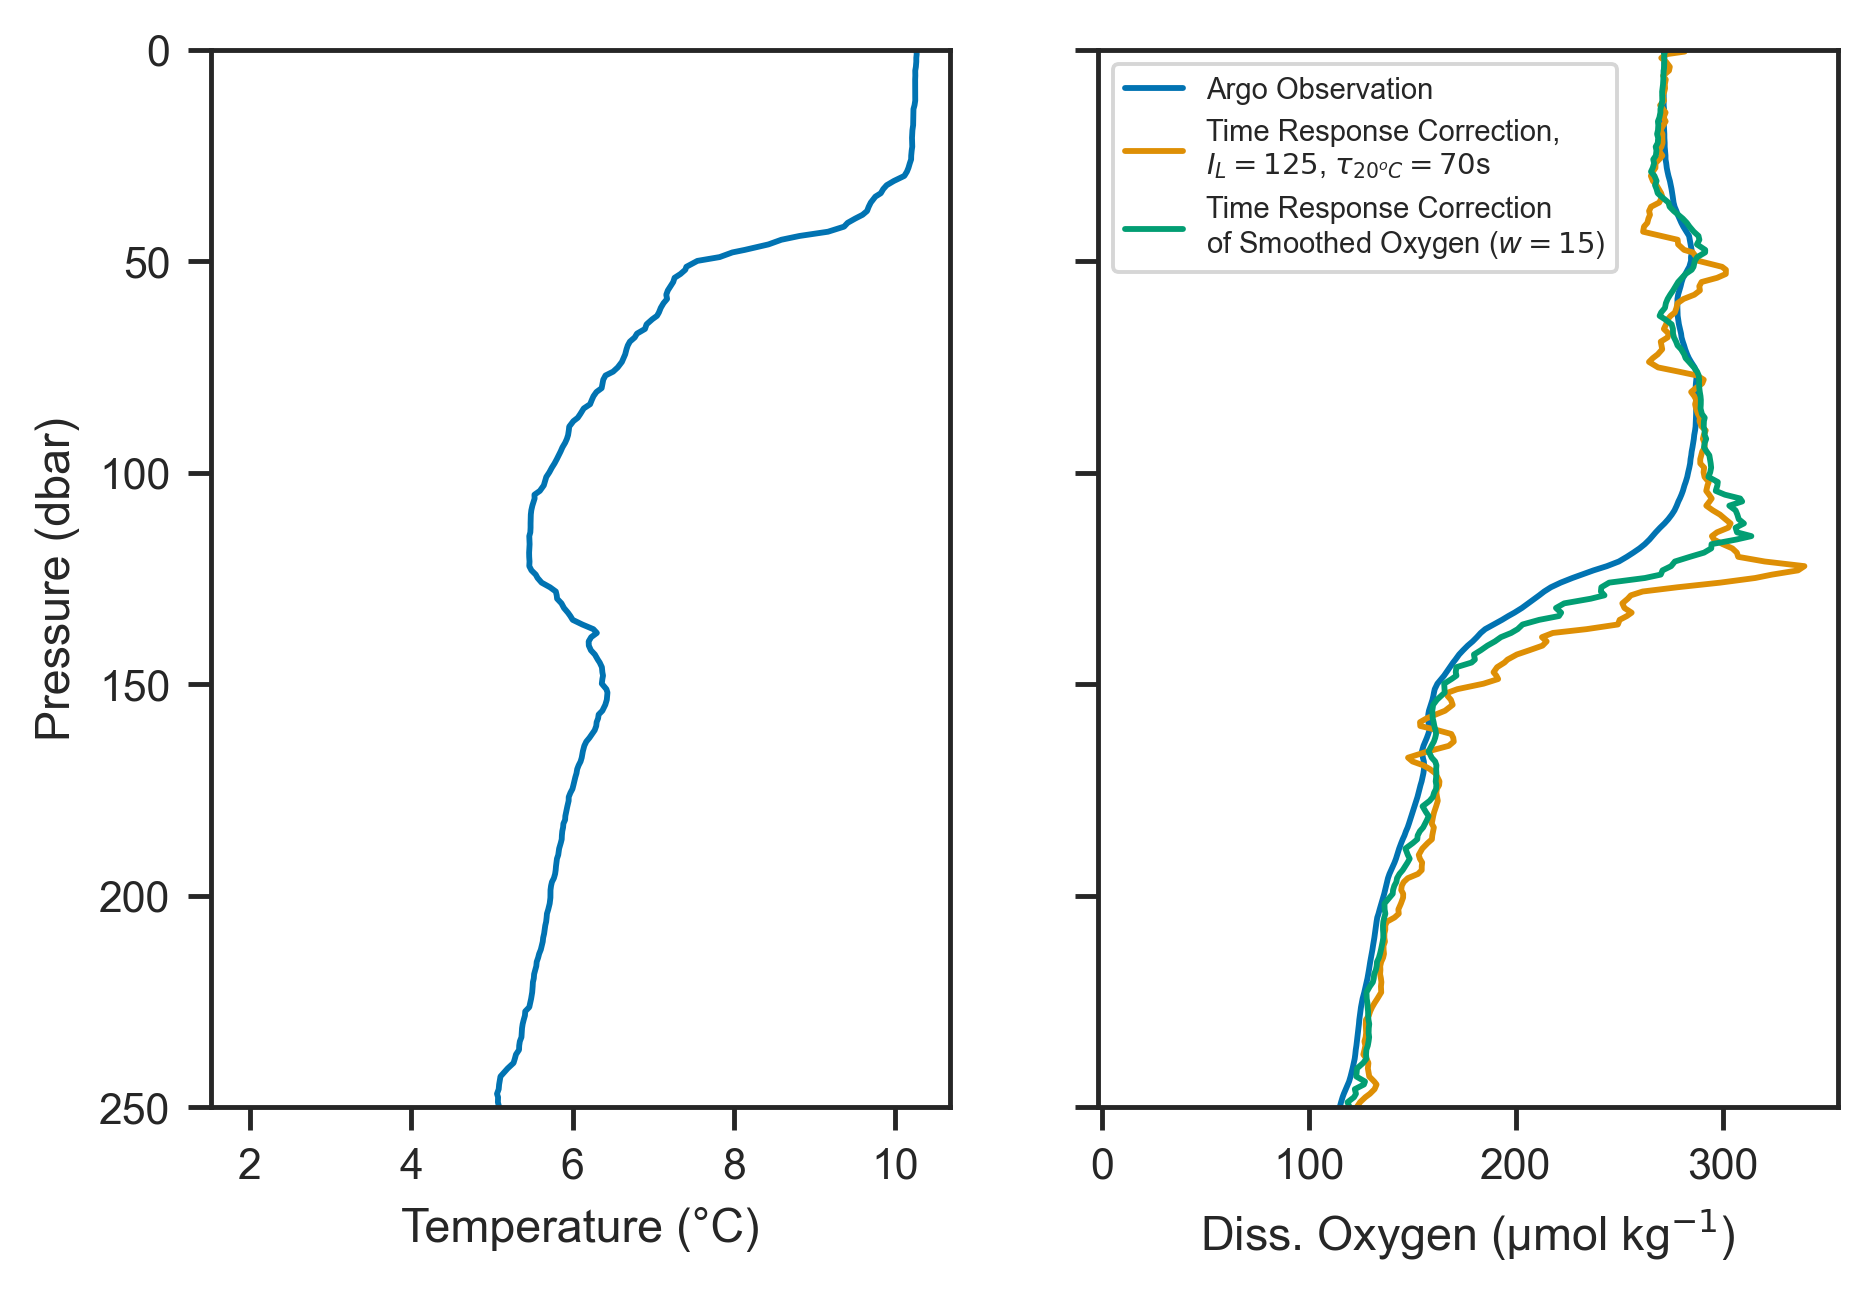
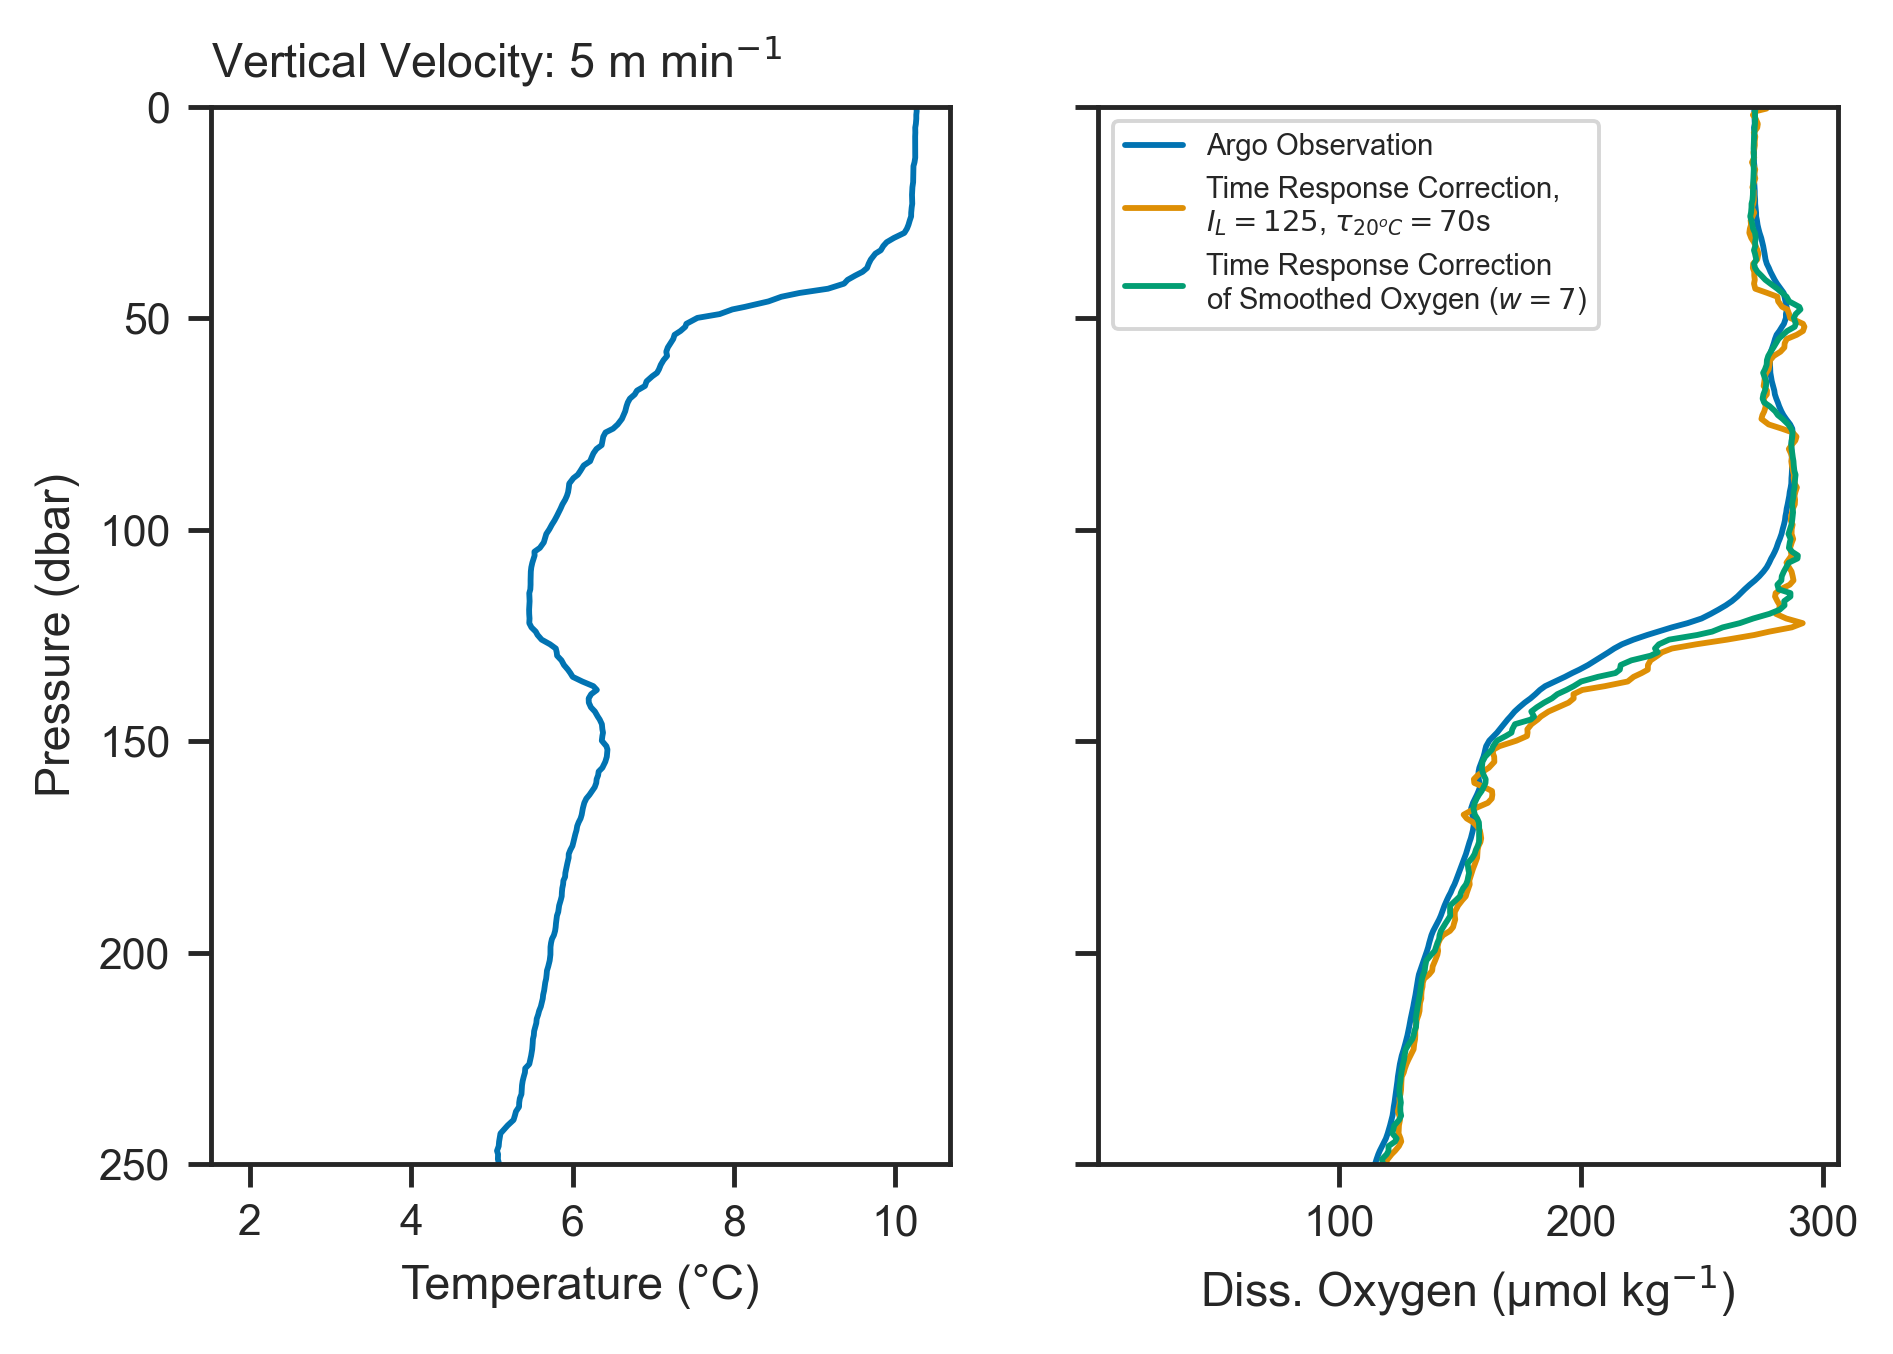
reduce vertical velocity

diff --git a/src/simulate_argo_timing_correction.py b/src/simulate_argo_timing_correction.py
@@ -38,26 +38,29 @@ cc = Dataset(core_fn)
 temp = cc['TEMP'][:].compressed()
 
 # arbitrarily assign times based on 10-15 m/min ascent w/ small amount of noise
-vv = 10 # vertical vel in m/min
+# NOTE: speed is the villian here when it looks bad, meas need to be frequent
+# should look at typical ascent rates, though I am pretty sure it is 10-15m/min
+vv = 5 # vertical vel in m/min
 time = -(pres - np.max(pres))/vv/60/24 # time in days 
 
 # smooth oxygen
-w = 15
+w = 7
+# do from bottom up so that nan values are at depth
 doxy_smooth = pd.Series(doxy[::-1]).rolling(w).mean().values[::-1]
 
 # artificially increase sampling rate
-pres_hr = np.arange(0, 2000, 0.1)
-time_hr = -(pres_hr - np.max(pres_hr))/vv/60/24 # time in days 
-f = interp1d(pres, doxy, kind='linear', bounds_error=False, fill_value='extrapolate')
-doxy_hr = f(pres_hr)
-f = interp1d(pres, temp, kind='linear', bounds_error=False, fill_value='extrapolate')
-temp_hr = f(pres_hr)
+# pres_hr = np.arange(0, 2000, 0.1)
+# time_hr = -(pres_hr - np.max(pres_hr))/vv/60/24 # time in days 
+# f = interp1d(pres, doxy, kind='linear', bounds_error=False, fill_value='extrapolate')
+# doxy_hr = f(pres_hr)
+# f = interp1d(pres, temp, kind='linear', bounds_error=False, fill_value='extrapolate')
+# temp_hr = f(pres_hr)
 
 # correct for a boundary layer thickness that corresponds to tau=70 at 20 deg C
 Il = 125
 doxy_corr = bgc.correct_response_time(time, doxy, temp, Il)
 doxy_corr_smooth = bgc.correct_response_time(time, doxy_smooth, temp, Il)
-doxy_corr_hr = bgc.correct_response_time(time_hr, doxy_hr, temp_hr, Il)
+# doxy_corr_hr = bgc.correct_response_time(time_hr, doxy_hr, temp_hr, Il)
 
 # NOTE: it would be nice to put a vertical rug on this plot to show location of obs
 
@@ -74,6 +77,7 @@ axes[1].plot(doxy_corr_smooth, pres, label='Time Response Correction\nof Smoothe
 axes[1].set_xlabel('Diss. Oxygen ($\mathregular{\mu}$mol kg$^{-1}$)')
 axes[1].legend(loc=2, fontsize=6)
 
+axes[0].set_title('Vertical Velocity: {} m min$^{{-1}}$'.format(vv), loc='left')
 axes[0].set_ylim((250,0))
 
 wmo = fn.as_posix().split('/')[-3]
